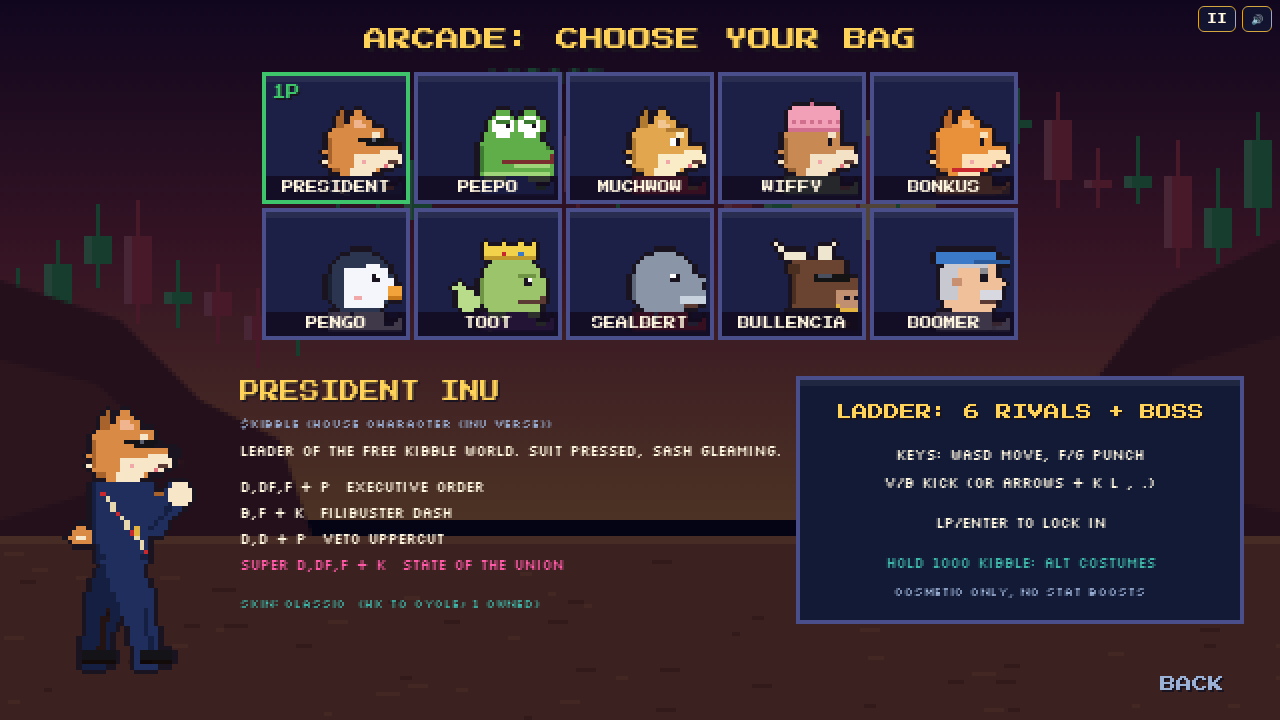
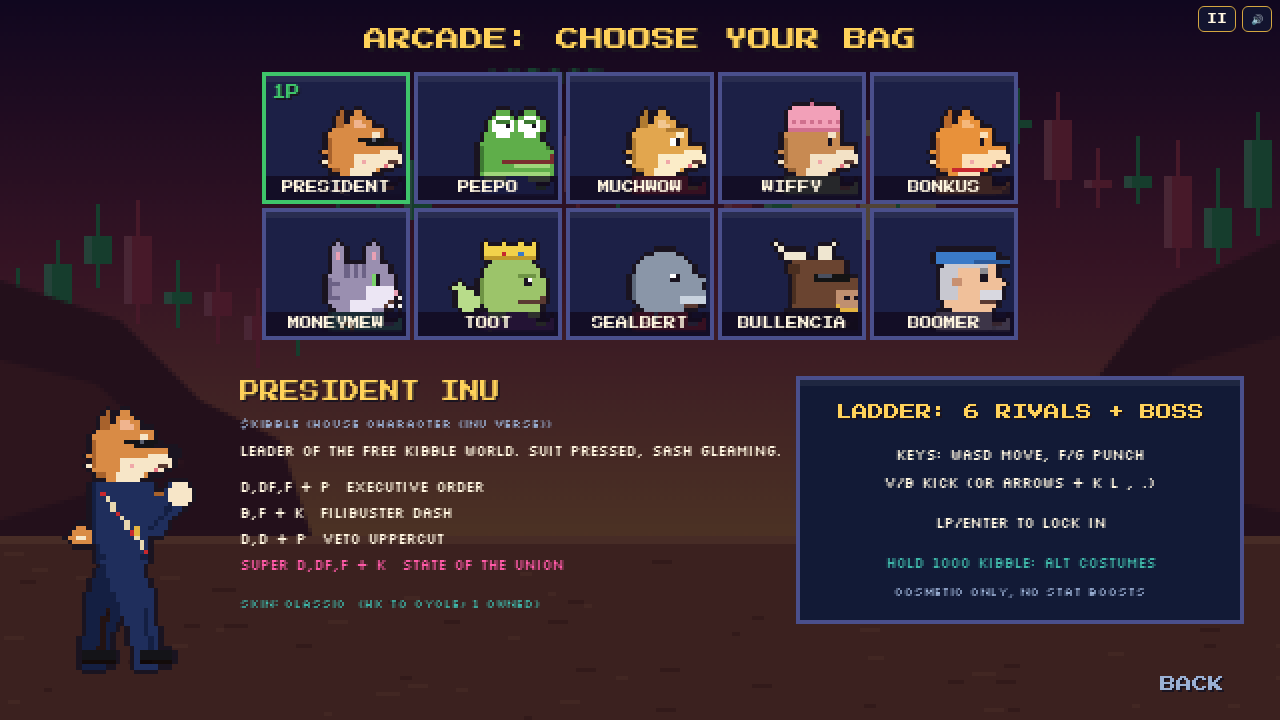
Replace PENGU parody with Moneymew (CASHCAT parody); fix touch meter overlap, canyon gap, title sign

Changed region(s): [[0.2188, 0.7028, 0.625, 0.7639], [0.2188, 0.3361, 0.3125, 0.4583]]

diff --git a/src/main.js b/src/main.js
@@ -6,6 +6,7 @@ import { unlock, sfx, music, setMuted, isMuted } from './audio.js';
 import * as K from './kibble.js';
 
 const cv = document.getElementById('game'), ctx = cv.getContext('2d'); ctx.imageSmoothingEnabled = false;
+const TOUCH = () => document.body.classList.contains('touch') && innerWidth > innerHeight;
 const H = 360, GY = 318, FONT = '"Press Start 2P", monospace', SMALL = 'Silkscreen, monospace';
 const G = { scr: 'title', t: 0, mode: 'arcade', sel: [0, 1], skinIdx: [0, 0], ready: [false, false], match: null, ladder: [], li: 0, fx: [], shake: 0, menuI: 0, msg: '', owned: ['base'], holder: false, cpuLevel: 0.5, rankOpp: null, lastRank: null, shopI: 0, paused: false };
 window.__mb = G;
@@ -132,7 +133,7 @@ function drawProj(p, t) {
     case 'wow': ctx.rotate(t / 4); for (let i = 0; i < 8; i++) { ctx.rotate(Math.PI / 4); R(0, -2, 16, 4); } R(-6, -6, 12, 12, '#fff6c0'); break;
     case 'hat': ctx.rotate(t / 3); R(-12, -4, 24, 10, '#f2a0b8'); R(-10, -8, 20, 4, '#d0708e'); R(-2, -12, 4, 4, '#d0708e'); break;
     case 'bat': ctx.rotate(t / 2.5); R(-16, -3, 32, 6, '#8a5a34'); R(4, -4, 12, 8, '#a8743e'); break;
-    case 'snow': for (const [a, b, r] of [[0, 4, 9], [0, -7, 6]]) { ctx.fillStyle = '#f4f8ff'; ctx.beginPath(); ctx.arc(a, b, r, 0, 7); ctx.fill(); } break;
+    case 'coin': { const w = Math.abs(Math.cos(t / 4)) * 11 + 2; ctx.fillStyle = '#a8801e'; ctx.fillRect(-w, -12, w * 2, 24); ctx.fillStyle = '#ffd25a'; ctx.fillRect(-w + 2, -10, w * 2 - 4, 20); if (w > 6) { ctx.fillStyle = '#a8801e'; ctx.fillRect(-2, -6, 4, 12); } break; }
     case 'gas': for (let i = 0; i < 5; i++) { ctx.fillStyle = i % 2 ? '#9cc46a' : '#b8dc8a'; ctx.beginPath(); ctx.arc(Math.cos(t / 6 + i) * 8, Math.sin(t / 5 + i * 2) * 8, 9, 0, 7); ctx.fill(); } break;
     case 'fish': R(-12, -5, 20, 10); R(8, -8, 6, 16); R(-8, -2, 3, 3, '#141418'); break;
     case 'snort': for (let i = 0; i < 4; i++) { ctx.fillStyle = 'rgba(240,240,240,.8)'; ctx.beginPath(); ctx.arc(-i * 7, Math.sin(t / 3 + i) * 3, 8 - i, 0, 7); ctx.fill(); } break;
@@ -159,11 +160,11 @@ function hud(m) {
     bar(bx, 14, 220, 16, f.ghostHp / f.maxHp, '#c8282e', '#3a1420', flip); ctx.fillStyle = f.hp / f.maxHp > 0.3 ? '#ffd25a' : '#ff7a4a'; const fw = Math.round(220 * f.hp / f.maxHp); ctx.fillRect(flip ? bx + 220 - fw : bx, 14, fw, 16); ctx.fillStyle = 'rgba(255,255,255,.35)'; ctx.fillRect(flip ? bx + 220 - fw : bx, 14, fw, 3);
     text(f.ch.name.toUpperCase(), flip ? 580 : 60, 40, 8, '#fff6e0', flip ? 'right' : 'left');
     for (let w = 0; w < 2; w++) { const wx = flip ? 368 + w * 14 : 270 - w * 14; ctx.fillStyle = '#1a1420'; ctx.fillRect(wx - 1, 35, 12, 12); ctx.fillStyle = m.wins[i] > w ? '#ffd25a' : '#3a3450'; ctx.fillRect(wx, 36, 10, 10); }
-    const full = f.meter >= 100; bar(flip ? 420 : 20, 338, 200, 10, f.meter / 100, full ? (m.tick % 10 < 5 ? '#ff5aa8' : '#7ad3f0') : '#3fb6a8', '#142030', flip);
-    text(full ? 'SUPER READY' : 'BAG METER', flip ? 620 : 20, 326, 7, full ? '#ff5aa8' : '#9ab0d4', flip ? 'right' : 'left', FONT);
+    const full = f.meter >= 100, my = TOUCH() ? 62 : 338; bar(TOUCH() ? (flip ? 420 : 60) : (flip ? 420 : 20), my, TOUCH() ? 160 : 200, TOUCH() ? 7 : 10, f.meter / 100, full ? (m.tick % 10 < 5 ? '#ff5aa8' : '#7ad3f0') : '#3fb6a8', '#142030', flip);
+    text(full ? 'SUPER READY' : 'BAG METER', TOUCH() ? (flip ? 416 : 224) : (flip ? 620 : 20), TOUCH() ? 65 : 326, TOUCH() ? 6 : 7, full ? '#ff5aa8' : '#9ab0d4', TOUCH() ? (flip ? 'right' : 'left') : (flip ? 'right' : 'left'), FONT);
     if (f.combo >= 2) text(`${f.combo} HITS`, flip ? 560 : 80, 90, 12, '#ffd25a'); }
   panel(296, 8, 48, 34, '#121a36'); text(String(Math.max(0, Math.ceil(m.timer / 60))).padStart(2, '0'), 320, 26, 16, m.timer < 600 ? '#ff7a4a' : '#fff6e0');
-  text(STAGES[m.stage] || '', 320, 52, 7, '#9ab0d4', 'center', SMALL);
+  text(STAGES[m.stage] || '', 320, TOUCH() ? 76 : 52, 7, '#9ab0d4', 'center', SMALL);
   if (m.banner) { const k = m.banner.t / m.banner.max, sc = 1 + Math.max(0, (k - 0.85)) * 3; ctx.save(); ctx.translate(320, 150); ctx.scale(sc, sc); const len = m.banner.text.length, size = len > 16 ? 18 : len > 10 ? 24 : 34;
     ctx.fillStyle = 'rgba(18,10,30,.55)'; ctx.fillRect(-320, -size, 640, size * 2 + (m.banner.sub ? 22 : 0)); text(m.banner.text, 0, 0, size, m.banner.text.includes('RUG') || m.banner.text.includes('FINISH') ? '#ff5a5a' : '#ffd25a'); if (m.banner.sub) text(m.banner.sub, 0, size + 6, 9, '#fff6e0'); ctx.restore(); }
   if (m.phase === 'finish') { const w = m.f[m.matchWinner], left = Math.ceil((180 - m.pt) / 60); text(`${left}`, 320, 230, 20, '#ff5a5a'); if (G.mode !== 'versus' && m.matchWinner === 1) {} }
@@ -177,6 +178,7 @@ function finisherLoser(m, f) {
     case 'moon': return t < 40 ? {} : { dy: -Math.pow(t - 40, 1.8) * 0.4, rot: 0, scale: Math.max(0.2, 1 - (t - 40) / 160) };
     case 'hat': return { sy: t > 40 ? Math.max(0.15, 1 - (t - 40) / 40) : 1, hide: t > 130 };
     case 'bonk': return { dy: t > 46 ? Math.min(90, (t - 46) * 3) : 0, filter: t > 46 ? 'brightness(.8)' : null };
+    case 'litter': return { dy: t > 50 ? Math.min(110, (t - 50) * 2.5) : 0, hide: t > 110 };
     case 'freeze': return { filter: t > 20 ? 'hue-rotate(180deg) saturate(.5) brightness(1.4)' : null, dx: t > 90 ? (t - 90) * (t - 90) * 0.06 * -f.face : 0 };
     case 'gas': return { filter: t > 30 ? 'hue-rotate(70deg) saturate(1.6)' : null, dy: t > 80 ? -(t - 80) * 2 : 0, rot: t > 80 ? Math.sin(t / 8) * 0.4 : 0 };
     case 'seal': return { hide: t > 70 };
@@ -191,6 +193,7 @@ function finisherOverlay(m) {
   if (k === 'moon') { if (t > 30) { ctx.fillStyle = '#ff7a4a'; for (let i = 0; i < 6; i++) ctx.fillRect(x - 6 + Math.random() * 12, GY + Math.pow(Math.max(0, t - 40), 1.8) * -0.4 + i * 8, 6, 8); } ctx.fillStyle = '#f6e7b8'; ctx.beginPath(); ctx.arc(520, 50, 26, 0, 7); ctx.fill(); if (t > 150) text('WOW', 520, 50, 10, '#c8282e', 'center', FONT, null); }
   if (k === 'hat') { const hy = Math.min(GY - 60, -100 + t * 6); ctx.fillStyle = '#f2a0b8'; ctx.fillRect(x - 44, hy - 30, 88, 60); ctx.fillStyle = '#d0708e'; for (let i = 0; i < 6; i++) ctx.fillRect(x - 40 + i * 14, hy - 26, 6, 52); ctx.fillRect(x - 10, hy - 44, 20, 14); if (t > 120) { ctx.translate(0, 0); } }
   if (k === 'bonk') { const a = t < 46 ? -2 + t / 23 : 0; ctx.save(); ctx.translate(x, GY - 220); ctx.rotate(a); ctx.fillStyle = '#8a5a34'; ctx.fillRect(-14, 0, 28, 180); ctx.fillStyle = '#a8743e'; ctx.fillRect(-20, 100, 40, 90); ctx.restore(); if (t > 46 && t < 120) text('BONK!', x, GY - 150, 26, '#ffd25a'); }
+  if (k === 'litter') { const s = Math.min(1, t / 30); ctx.fillStyle = '#3fb68a'; ctx.fillRect(x - 70 * s, GY - 30 * s, 140 * s, 34 * s); ctx.fillStyle = '#d8c89a'; ctx.fillRect(x - 64 * s, GY - 26 * s, 128 * s, 8 * s); ctx.fillStyle = '#2a8462'; ctx.fillRect(x - 70 * s, GY - 4, 140 * s, 6); if (t > 110) { for (let i = 0; i < 12; i++) { ctx.fillStyle = '#d8c89a'; ctx.fillRect(x - 50 + ((i * 29 + t) % 100), GY - 30 - Math.abs(Math.sin((t + i * 9) / 7)) * 30, 4, 4); } text('SCOOPED', x, GY - 70, 14, '#3fb68a'); } }
   if (k === 'freeze' && t > 20) { ctx.fillStyle = 'rgba(180,230,255,.5)'; const dx = t > 90 ? (t - 90) * (t - 90) * 0.06 * -l.face : 0; ctx.fillRect(x - 40 + dx, GY - 130, 80, 132); ctx.strokeStyle = '#e8fbff'; ctx.lineWidth = 3; ctx.strokeRect(x - 40 + dx, GY - 130, 80, 132); }
   if (k === 'gas') for (let i = 0; i < 14; i++) { const r = Math.min(70, t * 1.2); ctx.fillStyle = `rgba(156,196,106,${0.5})`; ctx.beginPath(); ctx.arc(x + Math.cos(i + t / 20) * r, GY - 60 + Math.sin(i * 2 + t / 15) * r * 0.6 - (t > 80 ? (t - 80) * 2 : 0), 20, 0, 7); ctx.fill(); }
   if (k === 'seal') { const s = Math.min(1, t / 40); ctx.fillStyle = '#f4ead0'; ctx.fillRect(x - 60 * s, GY - 110 * s, 120 * s, 110 * s); ctx.strokeStyle = '#c8b48a'; ctx.lineWidth = 2; ctx.beginPath(); ctx.moveTo(x - 60 * s, GY - 110 * s); ctx.lineTo(x, GY - 50 * s); ctx.lineTo(x + 60 * s, GY - 110 * s); ctx.stroke(); if (t > 70) { ctx.fillStyle = '#c8282e'; ctx.beginPath(); ctx.arc(x, GY - 50, 16, 0, 7); ctx.fill(); text('SEALED', x, GY - 140, 14, '#c8282e'); } if (t > 120) ctx.globalAlpha = 1; }
@@ -202,6 +205,7 @@ function finisherOverlay(m) {
 // ---------------- screen renderers ----------------
 function drawTitle() {
   ctx.drawImage(stageCanvas('mall'), 0, 0); ctx.fillStyle = 'rgba(6,4,20,.55)'; ctx.fillRect(0, 0, W, H);
+  ctx.fillStyle = 'rgba(10,6,24,.92)'; ctx.fillRect(0, 26, W, 146); ctx.fillStyle = '#d4a640'; ctx.fillRect(0, 26, W, 2); ctx.fillRect(0, 170, W, 2);
   const b = Math.sin(G.t / 20) * 3; text('MEME', 320, 70 + b, 44, '#ffd25a'); text('BRAWL', 320, 120 + b, 44, '#ff5a5a'); text('BAG  BRAWLERS  OF  THE  KIBBLE  VERSE', 320, 158, 8, '#fff6e0');
   ROSTER.forEach((c, i) => drawSprite(c, Math.floor(G.t / 24 + i) % 2 ? 'idle' : 'idle2', 'base', 40 + i * 62, 306, 1.4, i < 5 ? 1 : -1));
   if (Math.floor(G.t / 30) % 2) text('PRESS START / TAP', 320, 330, 12, '#fff6e0');
@@ -272,7 +276,7 @@ function drawShop() {
   [['Treasury 1%', f.treasury, 'BzLY..TNGJ'], ['Daily pool 0.25%', f.daily, ''], ['Weekly pool 0.5%', f.weekly, ''], ['Monthly pool 0.25%', f.monthly, '']].forEach(([n, v, a], j) => text(`${n}: ${K.fromBase(v)} ${a}`, 350, 92 + j * 16, 7, '#fff6e0', 'left', SMALL, null));
   text(`Treasury: ${K.TREASURY.slice(0, 22)}`, 350, 160, 6, '#9ab0d4', 'left', SMALL, null); text(`          ${K.TREASURY.slice(22)}`, 350, 172, 6, '#9ab0d4', 'left', SMALL, null);
   const P = K.poolsUi(); text(`Pools: D ${P.daily.toFixed(2)}  W ${P.weekly.toFixed(2)}  M ${P.monthly.toFixed(2)}`, 350, 194, 6, '#3fb6a8', 'left', SMALL, null);
-  drawSprite(byId('inu'), 'idle', it.id, 400, 340, 1.6, 1); drawSprite(byId('peepo'), 'idle', it.id, 460, 340, 1.6, 1); drawSprite(byId('pengo'), 'idle', it.id, 520, 340, 1.6, -1);
+  drawSprite(byId('inu'), 'idle', it.id, 400, 340, 1.6, 1); drawSprite(byId('peepo'), 'idle', it.id, 460, 340, 1.6, 1); drawSprite(byId('moneymew'), 'idle', it.id, 520, 340, 1.6, -1);
   text(`BALANCE: ${G.bal ?? '-'} KIBBLE   HOLDER: ${G.holder ? 'YES (alts unlocked)' : 'no (needs 1000)'}`, 30, 250, 7, '#fff6e0', 'left', SMALL, null);
   // ranked board
   panel(30, 266, 290, 84, '#121a36', '#4a4f8c'); const lb = K.leaderboard(), me = lb.find((e) => e.you), pool = P.weekly;

diff --git a/src/sprites.js b/src/sprites.js
@@ -80,9 +80,13 @@ function head(G, ch, pal, hx, hy, pose) {
       R(8, 2, 3, 1, C.dark); R(14, 2, 3, 1, C.dark);
       R(9, 11, 12, 1, '#7a2e2e'); R(12, 12, 8, 1, hurt ? '#7a2e2e' : C.light); S(20, 10, '#7a2e2e'); R(4, 8, 1, 6, C.dark); S(19, 8, C.dark); break;
     }
-    case 'pengu': {
-      D(11, 8, 7, C.base); R(8, 5, 9, 9, C.light); D(14, 8, 4, C.light); R(18, 9, 4, 2, '#f2a33a'); R(18, 11, 3, 1, '#c87a1a');
-      R(14, 6, 2, 2, INK); if (hurt) { S(13, 6, INK); S(16, 8, INK); } S(15, 6, '#fff'); R(10, 11, 2, 1, '#f0a8a8'); R(4, 6, 1, 6, C.dark); break;
+    case 'cat': {
+      R(5, 4, 13, 10, C.base); R(4, 6, 1, 7, C.base); R(17, 6, 2, 7, C.base); R(6, 14, 11, 1, C.base);
+      R(5, 0, 3, 4, C.base); S(6, -1, C.base); S(6, 1, C.ear); S(6, 2, C.ear); R(13, 0, 3, 4, C.base); S(14, -1, C.base); S(14, 1, C.ear); S(14, 2, C.ear);
+      for (const x of [8, 10, 12]) R(x, 4, 1, 3, C.dark); R(5, 8, 2, 1, C.dark); R(5, 11, 2, 1, C.dark);
+      R(13, 9, 6, 5, C.light); R(9, 12, 5, 3, C.light); S(19, 10, '#e8a0b4'); S(18, 12, MOUTH); S(17, 13, MOUTH);
+      if (hurt) { S(14, 7, INK); S(15, 6, INK); S(15, 8, INK); } else { R(14, 6, 2, 3, '#7ad36a'); R(15, 6, 1, 3, INK); }
+      for (const y of [11, 13]) { S(20, y, '#f4f0e8'); S(21, y, '#f4f0e8'); } R(4, 7, 1, 5, C.dark); break;
     }
     case 'toot': {
       D(11, 9, 7, C.base); R(6, 13, 12, 3, C.base); R(14, 7, 2, 2, INK); S(15, 7, '#fff'); R(13, 6, 4, 1, C.dark);
@@ -133,6 +137,7 @@ function paint(ch, poseName, skin) {
   if (ch.head === 'shiba' || ch.head === 'doge' || ch.head === 'wif' || ch.head === 'bonk') { // curled tail
     const tx = hipX - 8 - Math.sin(lean) * 2, ty = hipY - 6; rect(tx - 2, ty, 4, 3, pal.base); set(tx - 3, ty + 1, pal.base); set(tx - 1, ty - 1, pal.base); set(tx, ty - 1, pal.base); set(tx - 1, ty + 1, pal.light); set(tx, ty + 1, pal.light);
   }
+  if (ch.head === 'cat') { const tx = hipX - 7, ty = hipY - 2; for (let i = 0; i < 9; i++) set(tx - Math.round(Math.sin(i / 3) * 3), ty - i, i % 3 === 2 ? pal.dark : pal.base), set(tx - Math.round(Math.sin(i / 3) * 3) - 1, ty - i, pal.base); }
   if (ch.head === 'whale') { rect(hipX - 10, hipY - 2, 5, 4, pal.base); rect(hipX - 14, hipY - 5, 5, 3, pal.base); rect(hipX - 14, hipY + 2, 5, 3, pal.base); }
   // torso
   const tw = 13 + big * 4;
@@ -145,8 +150,9 @@ function paint(ch, poseName, skin) {
   if (ch.id === 'inu' && skin !== 'alt') { for (let i = 0; i < 10; i++) { const [x, y] = at(0.95 - i * 0.07, 3); set(x, y, '#f7e6c8'); } for (let i = 0; i < 9; i++) { const [x, y] = at(0.92 - i * 0.07, 3); set(x + (i < 2 ? 0 : 0), y, i === 0 ? '#f7e6c8' : pal.acc); }
     for (let i = 0; i < 13; i++) { const [x, y] = at(0.9 - i * 0.065, -4 + i * 0.75); set(x, y, i % 4 === 0 ? '#c8282e' : '#e8d8b0'); } }
   else if (ch.id === 'inu') { for (let i = 0; i < 9; i++) { const [x, y] = at(0.92 - i * 0.07, 3); set(x, y, pal.acc); } }
-  if (ch.head === 'pengu' || ch.head === 'seal') for (let i = 1; i < torsoL - 1; i++) { const [x, y] = at(i / torsoL, 2); rect(x - 1, y, 5, 1, pal.light); }
+  if (ch.head === 'seal') for (let i = 1; i < torsoL - 1; i++) { const [x, y] = at(i / torsoL, 2); rect(x - 1, y, 5, 1, pal.light); }
   if (ch.head === 'frog' || ch.head === 'boomer') for (let i = 2; i < torsoL; i += 4) { const [x, y] = at(i / torsoL, 3); set(x, y, '#ffffff'); }
+  if (ch.id === 'moneymew') { const [x, y] = at(0.92, 0); for (let d = -3; d <= 3; d++) set(x + d, y + Math.abs(d) * 0.5, pal.acc); rect(x - 1, y + 2, 3, 3, pal.acc); set(x, y + 3, '#fff1b0'); }
   if (ch.id === 'bullencia') { const [x, y] = at(0.6, 0); rect(x - 3, y, 7, 2, pal.acc); }
   if (ch.id === 'muchwow' || ch.id === 'sealbert') { const [x, y] = at(0.95, 2); rect(x - 3, y, 6, 1, pal.acc); }
   if (ch.head === 'whale') { const [x, y] = at(0.9, 3); rect(x - 1, y, 2, 8, pal.acc); for (let i = 0; i < 3; i++) set(at(0.6 - i * 0.2, 1)[0], at(0.6 - i * 0.2, 1)[1], '#e3b341'); }

diff --git a/src/roster.js b/src/roster.js
@@ -25,11 +25,11 @@ export const ROSTER = [
     alt: { top: '#5a5ae8', topD: '#3a3ab0', bot: '#2b2b38', botD: '#1a1a24', acc: '#c0c0c8' },
     spd: 0.95, pow: 1.15, specials: { proj: { name: 'Bat Toss', color: '#8a5a34', kind: 'bat', dmg: 75, speed: 6 }, rush: { name: 'Bonk Rush', dmg: 100 }, rise: { name: 'Horny Jail Uppercut', dmg: 105 }, super: { name: 'Mega Bonk', dmg: 280 } },
     fin: { name: 'Bonked Into Floor', kind: 'bonk' }, bio: 'Swings first, checks the chart never.' },
-  { id: 'pengo', name: 'Pengo', ticker: 'PENGU-ish', src: 'CoinGecko trending + GeckoTerminal trending', stage: 'moon', head: 'pengu',
-    pal: { base: '#2c3550', dark: '#1c2236', light: '#f4f6fb', ear: '#2c3550', top: '#f4f6fb', topD: '#c9cfdc', bot: '#2c3550', botD: '#1c2236', acc: '#f2a33a', shoe: '#f2a33a' },
-    alt: { top: '#f4f6fb', topD: '#c9cfdc', bot: '#7a3ac8', botD: '#55278e', acc: '#ff5a7a' },
-    spd: 1.1, pow: 0.9, specials: { proj: { name: 'Snowball Stack', color: '#e8f4ff', kind: 'snow', dmg: 60, speed: 6 }, rush: { name: 'Belly Slide', dmg: 85 }, rise: { name: 'Flipper Flap', dmg: 90 }, super: { name: 'Iceberg Drop', dmg: 250 } },
-    fin: { name: 'Deep Freeze', kind: 'freeze' }, bio: 'Small. Round. Absolutely relentless.' },
+  { id: 'moneymew', name: 'Moneymew', ticker: 'CASHCAT-ish', src: 'GeckoTerminal trending #7 (CASHCAT)', stage: 'mall', head: 'cat',
+    pal: { base: '#9a8fb0', dark: '#6c6286', light: '#ece6f4', ear: '#e8a0b4', top: '#3fb68a', topD: '#2a8462', bot: '#3a3448', botD: '#26222f', acc: '#e3b341', shoe: '#f4f0e8' },
+    alt: { top: '#f4f0e8', topD: '#cfc8b8', bot: '#c8282e', botD: '#8e1a20', acc: '#3fb68a' },
+    spd: 1.12, pow: 0.92, specials: { proj: { name: 'Lucky Coin Flick', color: '#e3b341', kind: 'coin', dmg: 62, speed: 6.5 }, rush: { name: 'Pounce Dash', dmg: 85 }, rise: { name: 'Nine Lives Uppercut', dmg: 95 }, super: { name: 'Cat Nap Jackpot', dmg: 250 } },
+    fin: { name: 'Litter Box Liquidation', kind: 'litter' }, bio: 'Knocks your bags off the table. On purpose.' },
   { id: 'toot', name: 'Toot Lord', ticker: 'FART-ish', src: 'CoinGecko meme vol top 11', stage: 'pond', head: 'toot',
     pal: { base: '#9cc46a', dark: '#6e9444', light: '#d6ecb0', ear: '#6e9444', top: '#6a3a8a', topD: '#4a2862', bot: '#6a3a8a', botD: '#4a2862', acc: '#f2d24b', shoe: '#3a2418' },
     alt: { top: '#3a3a3a', topD: '#222', bot: '#3a3a3a', botD: '#222', acc: '#9cc46a' },

diff --git a/src/stages.js b/src/stages.js
@@ -9,7 +9,7 @@ function floorTiles(c, y, a, b, line) { R(c, 0, y, 320, 180 - y, a); for (let j 
 
 const PAINT = {
   mall(c) {
-    grad(c, 0, 130, ['#070b22', '#141a46', '#2a2060']); stars(c, 70, 3, 80);
+    grad(c, 0, 136, ['#070b22', '#141a46', '#2a2060']); stars(c, 70, 3, 80);
     R(c, 262, 18, 14, 14, '#f6e7b8'); R(c, 264, 16, 10, 18, '#f6e7b8'); R(c, 268, 20, 3, 3, '#e0d0a0');
     // skyline
     const r = rng(9); for (let x = 0; x < 320; x += 14 + Math.floor(r() * 10)) { const h = 30 + r() * 40, w = 12 + r() * 10; R(c, x, 120 - h, w, h, '#161a3a'); for (let wy = 120 - h + 4; wy < 116; wy += 5) for (let wx = x + 2; wx < x + w - 2; wx += 4) if (r() < 0.35) R(c, wx, wy, 2, 2, '#e8c46a'); }
@@ -25,7 +25,7 @@ const PAINT = {
     floorTiles(c, 134, '#3a3466', '#8a7ac8', '#2c2852'); R(c, 120, 134, 80, 4, '#4a8ac8');
   },
   canyon(c) {
-    grad(c, 0, 130, ['#2a0e3a', '#a83a4a', '#f2a04a']); R(c, 200, 30, 30, 30, '#ffd88a'); R(c, 196, 34, 38, 22, '#ffd88a');
+    grad(c, 0, 136, ['#2a0e3a', '#a83a4a', '#f2a04a']); R(c, 200, 30, 30, 30, '#ffd88a'); R(c, 196, 34, 38, 22, '#ffd88a');
     const r = rng(5); let v = 90;
     for (let x = 0; x < 320; x += 10) { const up = r() < 0.58; const d = (r() * 18) * (up ? -1 : 1); const o = v, cl = v + d; v = Math.max(30, Math.min(110, cl)); const top = Math.min(o, v), bot = Math.max(o, v); const col = up ? '#3ec46a' : '#e04a5a';
       R(c, x + 4, top - 6 - r() * 6, 1, bot - top + 14, col); R(c, x + 1, top, 7, Math.max(2, bot - top), col); R(c, x + 1, top, 2, Math.max(2, bot - top), 'rgba(255,255,255,.25)'); }
@@ -69,7 +69,7 @@ const PAINT = {
 
 export function stageCanvas(id) {
   if (cache[id]) return cache[id];
-  const lo = mk(320, 180), c = lo.getContext('2d'); c.imageSmoothingEnabled = false; (PAINT[id] || PAINT.mall)(c);
+  const lo = mk(320, 180), c = lo.getContext('2d'); c.imageSmoothingEnabled = false; c.fillStyle = '#120a1e'; c.fillRect(0, 0, 320, 180); (PAINT[id] || PAINT.mall)(c);
   const hi = mk(640, 360), h = hi.getContext('2d'); h.imageSmoothingEnabled = false; h.drawImage(lo, 0, 0, 640, 360);
   return (cache[id] = hi);
 }

diff --git a/tests/combat.test.js b/tests/combat.test.js
@@ -11,6 +11,8 @@ test('roster: 10 fighters + boss, each with 3 specials + super + finisher', () =
   assert.equal(ROSTER.length, 10); assert.ok(BOSS.boss);
   for (const c of [...ROSTER, BOSS]) { for (const k of ['proj', 'rush', 'rise', 'super']) assert.ok(c.specials[k].name); assert.ok(c.fin.name); }
   assert.ok(!JSON.stringify([...ROSTER, BOSS]).match(/kombat|fatality|mortal|finish him|get over here/i));
+  assert.ok(!JSON.stringify([...ROSTER, BOSS]).match(/peng/i), 'PENGU parody removed');
+  const mm = ROSTER.find((c) => c.id === 'moneymew'); assert.ok(mm && mm.head === 'cat' && mm.fin.kind === 'litter' && mm.alt);
 });
 test('light punch damages and puts defender in hitstun', () => {
   const m = fight(); close(m); run(m, 1, { lp: 1 }); run(m, 6);
@@ -83,4 +85,11 @@ test('kibble fee split: 2% total = 1% treasury + 0.25/0.5/0.25 pools', () => {
 test('Elo + rank prizes: deterministic, zero-sum, no draws', () => {
   const [a, b] = elo(1200, 1200, 1); assert.equal(a, 1216); assert.equal(b, 1184);
   assert.ok(Math.abs(PRIZE_SHARES.reduce((s, x) => s + x, 0) - 1) < 1e-9); assert.equal(prizeFor(1, 1000), 400); assert.equal(prizeFor(11, 1000), 0);
+});
+test('Moneymew finisher runs through to match end', () => {
+  const m = mkMatch('moneymew', 'boomer', { seed: 5 }); for (let i = 0; i < 90; i++) step(m, [{}, {}]);
+  for (let r = 0; r < 2; r++) { while (m.phase !== 'fight') step(m, [{}, {}]); m.f[1].hp = 1; m.f[0].x = 300; m.f[1].x = 350; step(m, [{ lp: 1 }, {}]); for (let i = 0; i < 12; i++) step(m, [{}, {}]); }
+  for (let i = 0; i < 100; i++) step(m, [{}, {}]); assert.equal(m.phase, 'finish');
+  const fin = [{ d: 1 }, {}, { d: 1 }, { d: 1, hk: 1 }]; for (const f of fin) step(m, [f, {}]);
+  assert.equal(m.finisher.kind, 'litter'); for (let i = 0; i < 210; i++) step(m, [{}, {}]); assert.equal(m.phase, 'matchEnd');
 });

diff --git a/RESEARCH.md b/RESEARCH.md
@@ -20,19 +20,20 @@ All data pulled live on 2026-10-14 ~23:55 AEDT (12:55 UTC). Trending lists churn
 | Muchwow | DOGE (the Shiba photo meme) | #2 meme by volume | CoinGecko meme volume |
 | Wiffy | dogwifhat (WIF) | top-10 meme by volume | CoinGecko meme volume |
 | Bonkus | BONK | top-10 meme by volume | CoinGecko meme volume |
-| Pengo | Pudgy Penguins (PENGU) | on CoinGecko trending and GeckoTerminal trending | CG trending + GT trending |
+| Moneymew | CASHCAT (a generic cash cat meme on Robinhood chain) | GeckoTerminal trending pool #7 on 14 Oct, still #7 when re-checked 15 Oct 00:20 AEDT | GeckoTerminal |
 | Toot Lord | Fartcoin | top-11 meme by volume | CoinGecko meme volume |
 | Sealbert | SEALS (Solana) | GeckoTerminal trending pool #4 | GeckoTerminal |
 | Bullencia | BULLENCIAGA (pump.fun) | top-2 live pump.fun coin by mcap | pump.fun |
 | Boomer Bob | Boomer (BOOMER) | #1 meme by 24h volume | CoinGecko meme volume |
 | BOSS: Lord Rugsworth | original villain (a rug-pull whale) | arcade boss, not a coin | original |
 
-Left out: Official Trump (a real-person likeness, so a right-of-publicity risk), Mubarak (a real-person/region reference), and the DexScreener boosted coins (paid placement, not organic trend).
+Left out: PENGU (enforced NFT IP, swapped out for Moneymew), Official Trump (a real-person likeness, so a right-of-publicity risk), Mubarak (a real-person/region reference), and the DexScreener boosted coins (paid placement, not organic trend).
 
 ## IP sensitivity notes
 - **Pepe the Frog**: Matt Furie holds the copyright and has enforced it (for example in 2018-2019 actions). Peepo is a different frog design (round head, no Pepe lip shape, a different green), with no copied artwork. Medium risk. Keep it parody and never use the original comic art.
 - **Doge**: the Kabosu photo is copyrighted by Atsuko Sato. Muchwow is our own pixel Shiba (golden coat, side-eye brows). No photo is used. Low-to-medium risk.
 - **dogwifhat**: the original photo of Achi in a pink beanie belongs to its owners. We draw an original dog with a knit hat. Low risk.
-- **Pudgy Penguins**: an NFT IP owned by Igloo Inc. that is actively licensed and enforced. **Highest commercial risk.** Pengo is a generic penguin; avoid Pudgy's exact proportions and colourways. Consider swapping it out before any commercial launch.
-- **BONK, Fartcoin, SEALS, BULLENCIAGA, Boomer**: community memes with no known enforcement. Bullencia avoids any Balenciaga mark or logo; the name is a parody (trademark is a parody-name risk, low).
+- **PENGU (Pudgy Penguins)**: Igloo Inc. actively licenses and enforces this IP, so our penguin parody was **removed** on 15 Oct 2026 (approved by Zachary).
+- **Moneymew (replacement)**: parodies CASHCAT, a small anonymous community coin with no known brand owner, no real person and no enforcement history. The art is an original lilac-grey tabby with a mint jacket, a gold chain and green eyes, and it doesn't copy the token's logo. Low risk.
+- **BONK, Fartcoin, SEALS, BULLENCIAGA, Boomer, CASHCAT**: community memes with no known enforcement. Bullencia avoids any Balenciaga mark or logo; the name is a parody (trademark is a parody-name risk, low).
 - **Mortal Kombat**: none of its names, logos, characters or sounds are used. The terms we use are "Rug Pull", "FINISH THE BAG" and "BAG SECURED".
